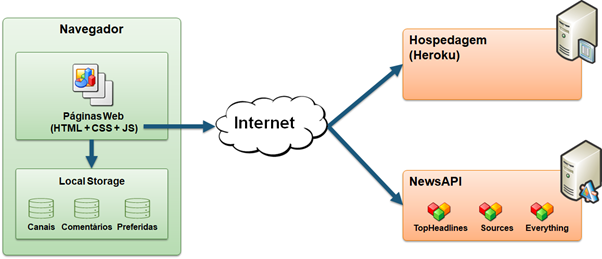
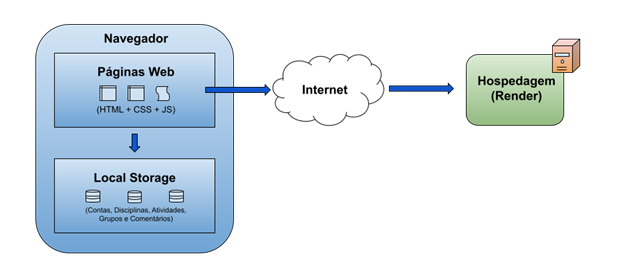
Add 'Arquitetura de Solução' doc, fix other issues

diff --git a/docs/05-Arquitetura da Solução.md b/docs/05-Arquitetura da Solução.md
@@ -1,14 +1,12 @@
 # Arquitetura da Solução
 
-<span style="color:red">Pré-requisitos: <a href="3-Projeto de Interface.md"> Projeto de Interface</a></span>
-
-Definição de como o software é estruturado em termos dos componentes que fazem parte da solução e do ambiente de hospedagem da aplicação.
+Nesta seção são apresentados os detalhes técnicos da solução criada pela equipe, tratando dos componentes que fazem parte da solução e do ambiente de hospedagem da solução.
 
 ## Diagrama de componentes
 
-Diagrama que permite a modelagem física de um sistema, através da visão dos seus componentes e relacionamentos entre os mesmos.
+Os componentes que fazem parte da solução são apresentados na Figura que se segue.
 
-Exemplo: 
+Exemplo:
 
 Os componentes que fazem parte da solução são apresentados na Figura XX.
 
@@ -16,62 +14,22 @@ Os componentes que fazem parte da solução são apresentados na Figura XX.
 <center>Figura XX - Arquitetura da Solução</center>
 
 A solução implementada conta com os seguintes módulos:
-- **Navegador** - Interface básica do sistema  
+- **Navegador** - Interface básica do sistema
   - **Páginas Web** - Conjunto de arquivos HTML, CSS, JavaScript e imagens que implementam as funcionalidades do sistema.
-   - **Local Storage** - armazenamento mantido no Navegador, onde são implementados bancos de dados baseados em JSON. São eles: 
-     - **Canais** - seções de notícias apresentadas 
-     - **Comentários** - registro de opiniões dos usuários sobre as notícias
-     - **Preferidas** - lista de notícias mantidas para leitura e acesso posterior
- - **News API** - plataforma que permite o acesso às notícias exibidas no site.
- - **Hospedagem** - local na Internet onde as páginas são mantidas e acessadas pelo navegador. 
-
-> **Links Úteis**:
->
-> - [Whimsical](https://whimsical.com/)
-
-Inclua um diagrama da solução e descreva os módulos e as tecnologias que fazem parte da solução. Discorra sobre o diagrama.
-
-A imagem a seguir ilustra a o fluxo do usuário em nossa solução. Assim
-que o usuário entra na plataforma, ele é apresentado à tela inicial
-(Tela 1) onde ele é confrontado com as opões de editar seu perfil ou
-então visualizar sua galeria.
-
-Caso ele opte por seguir pelo primeiro caminho (Editar Perfil), ele é
-redirecionado para a tela de edição de perfil (Tela 2), onde pode
-atualizar seus dados cadastrais. Nessa tela, o usuário também pode
-escolher para editar sua foto de perfil. Ao selecionar essa opção, ele é
-redirecionado para a Tela 3, onde ele a imagem expandida do perfil do
-usuário é mostrado. Ao selecionar a opção para atualizar a imagem, uma
-nova janela abre pedindo para o usuário fazer o upload da nova foto.
-Assim que o processo termina um pop-up exibe o status para o usuário
-(Tela 4) e o usuário é redirecionado para a Tela 2.
-
-Caso o usuário opte seguir pelo segundo caminho (Visualizar Galeria) ele
-é redirecionado para a Tela 5 com todas as fotos que o usuário possui. O
-usuário pode clicar em um post qualquer para visualizar os detalhes do
-post (Tela 6). Nessa tela, ele pode então escolher editar o post, sendo
-redirecionado para a Tela 7. Ao editar as informações, o usuário pode
-escolher salvar ou deletar o post. Em ambos os casos o status é
-notificado para o usuário (Tela 8) e em seguida ele é redirecionado
-para a Tela 2.
-
-![Exemplo de UserFlow](img/userflow.jpg)
-
-
-## Tecnologias Utilizadas
-
-Descreva aqui qual(is) tecnologias você vai usar para resolver o seu problema, ou seja, implementar a sua solução. Liste todas as tecnologias envolvidas, linguagens a serem utilizadas, serviços web, frameworks, bibliotecas, IDEs de desenvolvimento, e ferramentas.
-
-Apresente também uma figura explicando como as tecnologias estão relacionadas ou como uma interação do usuário com o sistema vai ser conduzida, por onde ela passa até retornar uma resposta ao usuário.
-
+   - **Local Storage** - armazenamento mantido no Navegador, onde são implementados bancos de dados baseados em JSON. São eles:
+     - **Contas** - os dados de acesso para as contas dos usuários, sejam eles alunos ou professores.
+     - **Disciplinas** - Matérias criadas pelos professores.
+     - **Atividades** - Atividades criadas pelos professores.
+     - **Grupos** - Grupos criados pelos alunos e seus atributos, como membros, horário sugerido, dias da semana sugeridos, tema (se livre) e atividade relacionada.
+     - **Comentários** - Comentários feitos pelos usuários nos grupos.
+ - **Hospedagem** - local na Internet onde as páginas são mantidas e acessadas pelo navegador.
 
 ## Hospedagem
 
-Explique como a hospedagem e o lançamento da plataforma foi feita.
+O site utiliza a plataforma do Render como ambiente de hospedagem do site do projeto. O site é mantido no ambiente da URL:
 
-> **Links Úteis**:
->
-> - [Website com GitHub Pages](https://pages.github.com/)
-> - [Programação colaborativa com Repl.it](https://repl.it/)
-> - [Getting Started with Heroku](https://devcenter.heroku.com/start)
-> - [Publicando Seu Site No Heroku](http://pythonclub.com.br/publicando-seu-hello-world-no-heroku.html)
+https://linkexemplo.render.com
+
+A publicação do site no Render é feita automaticamente por meio de uma submissão do projeto (push) via git para o repositório remoto que se encontra no endereço do GitHub:
+
+https://github.com/repo/link_exemplo.git

diff --git a/docs/07-Programação de Funcionalidades.md b/docs/07-Programação de Funcionalidades.md
@@ -2,11 +2,11 @@
 
 ### Gerenciar Turmas (RF-01)
 
-A tela de gerencia de turma permite ao professor criar turmas, onde essas turmas terão informações como alunos: Disciplina Mestrada, Eixo/Periodo e Codigo de Turma. Nessa tela também permite que o professor excluia, alterar e adicionar aluno a uma turma. Através de uma tabela o professor conseguirá fazer o filtro de alguma turma para mais facil acesso, como também visualizar quantos membros e quais membros fazem parte daquela turma. 
+A tela de gerencia de turma permite ao professor criar turmas, onde essas turmas terão informações como alunos: Disciplina Mestrada, Eixo/Periodo e Codigo de Turma. Nessa tela também permite que o professor excluia, alterar e adicionar aluno a uma turma. Através de uma tabela o professor conseguirá fazer o filtro de alguma turma para mais facil acesso, como também visualizar quantos membros e quais membros fazem parte daquela turma.
 
-![gerenciar-turma tela](https://github.com/ICEI-PUC-Minas-PMV-ADS/pmv-ads-2023-1-e1-proj-web-t13-g1-TimeFacil/blob/main/docs/img/gerenciar-turma.jpg)
-![gerenciar-turma tela](https://github.com/ICEI-PUC-Minas-PMV-ADS/pmv-ads-2023-1-e1-proj-web-t13-g1-TimeFacil/blob/main/docs/img/adicionar-turma.jpg)
-![gerenciar-turma tela](https://github.com/ICEI-PUC-Minas-PMV-ADS/pmv-ads-2023-1-e1-proj-web-t13-g1-TimeFacil/blob/main/docs/img/excluir-turma.jpg)
+![gerenciar-turma tela](img/gerenciar-turma.jpg)
+![gerenciar-turma tela](img/adicionar-turma.jpg)
+![gerenciar-turma tela](img/excluir-turma.jpg)
 
 Artefatos da funcionalidade
 - gerenciar-turma.html

diff --git a/docs/02-Especificação do Projeto.md b/docs/02-Especificação do Projeto.md
@@ -1,7 +1,5 @@
 # Especificações do Projeto
 
-<span style="color:red">Pré-requisitos: <a href="1-Documentação de Contexto.md"> Documentação de Contexto</a></span>
-
 A definição exata do problema e os pontos mais relevantes a serem tratados neste projeto foi consolidada com a participação dos usuários em um trabalho de imersão feita pelos membros da equipe a partir da observação dos usuários em seu local natural e por meio de entrevistas. Os detalhes levantados nesse processo foram consolidados na forma de personas e histórias de usuários.
 
 ## Personas
@@ -85,7 +83,7 @@ As questões que limitam a execução desse projeto e que se configuram como obr
 
 |ID| Restrição                                             |
 |--|-------------------------------------------------------|
-|RE-01|A aplicação deve ser entregue de forma plenamente funcional até 25/06/2023.  | 
+|RE-01|A aplicação deve ser entregue de forma plenamente funcional até 25/06/2023.  |
 |RE-02|A aplicação deve ser integralmente desenvolvida pelos membros do grupo.  |
 |RE-03|A metodologia de gestão que deverá ser empregada para o desenvolvimento do projeto é a Metodologia Ágil SCRUM.  |
 |RE-04|O site deverá ser desenvolvido nas linguagens de marcação HTML e CSS e programação Javascript.  |

diff --git a/docs/04-Projeto de Interface.md b/docs/04-Projeto de Interface.md
@@ -1,8 +1,6 @@
 
 # Projeto de Interface
 
-<span style="color:red">Pré-requisitos: <a href="2-Especificação do Projeto.md"> Documentação de Especificação</a></span>
-
 Dentre as preocupações para a montagem da interface do sistema, estamos estabelecendo foco em questões como agilidade, acessibilidade e usabilidade. Desta forma, o projeto tem uma identidade visual padronizada em todas as telas que são projetadas para funcionamento em desktops e dispositivos móveis.
 
 ## User Flow

diff --git a/docs/03-Metodologia.md b/docs/03-Metodologia.md
@@ -1,8 +1,6 @@
 
 # Metodologia
 
-<span style="color:red">Pré-requisitos: <a href="2-Especificação do Projeto.md"> Documentação de Especificação</a></span>
-
 A metodologia contempla as definições de ferramental utilizado pela equipe tanto para a manutenção dos códigos e demais artefatos quanto para a organização do time na execução das tarefas do projeto.
 
 ## Relação de Ambientes de Trabalho
